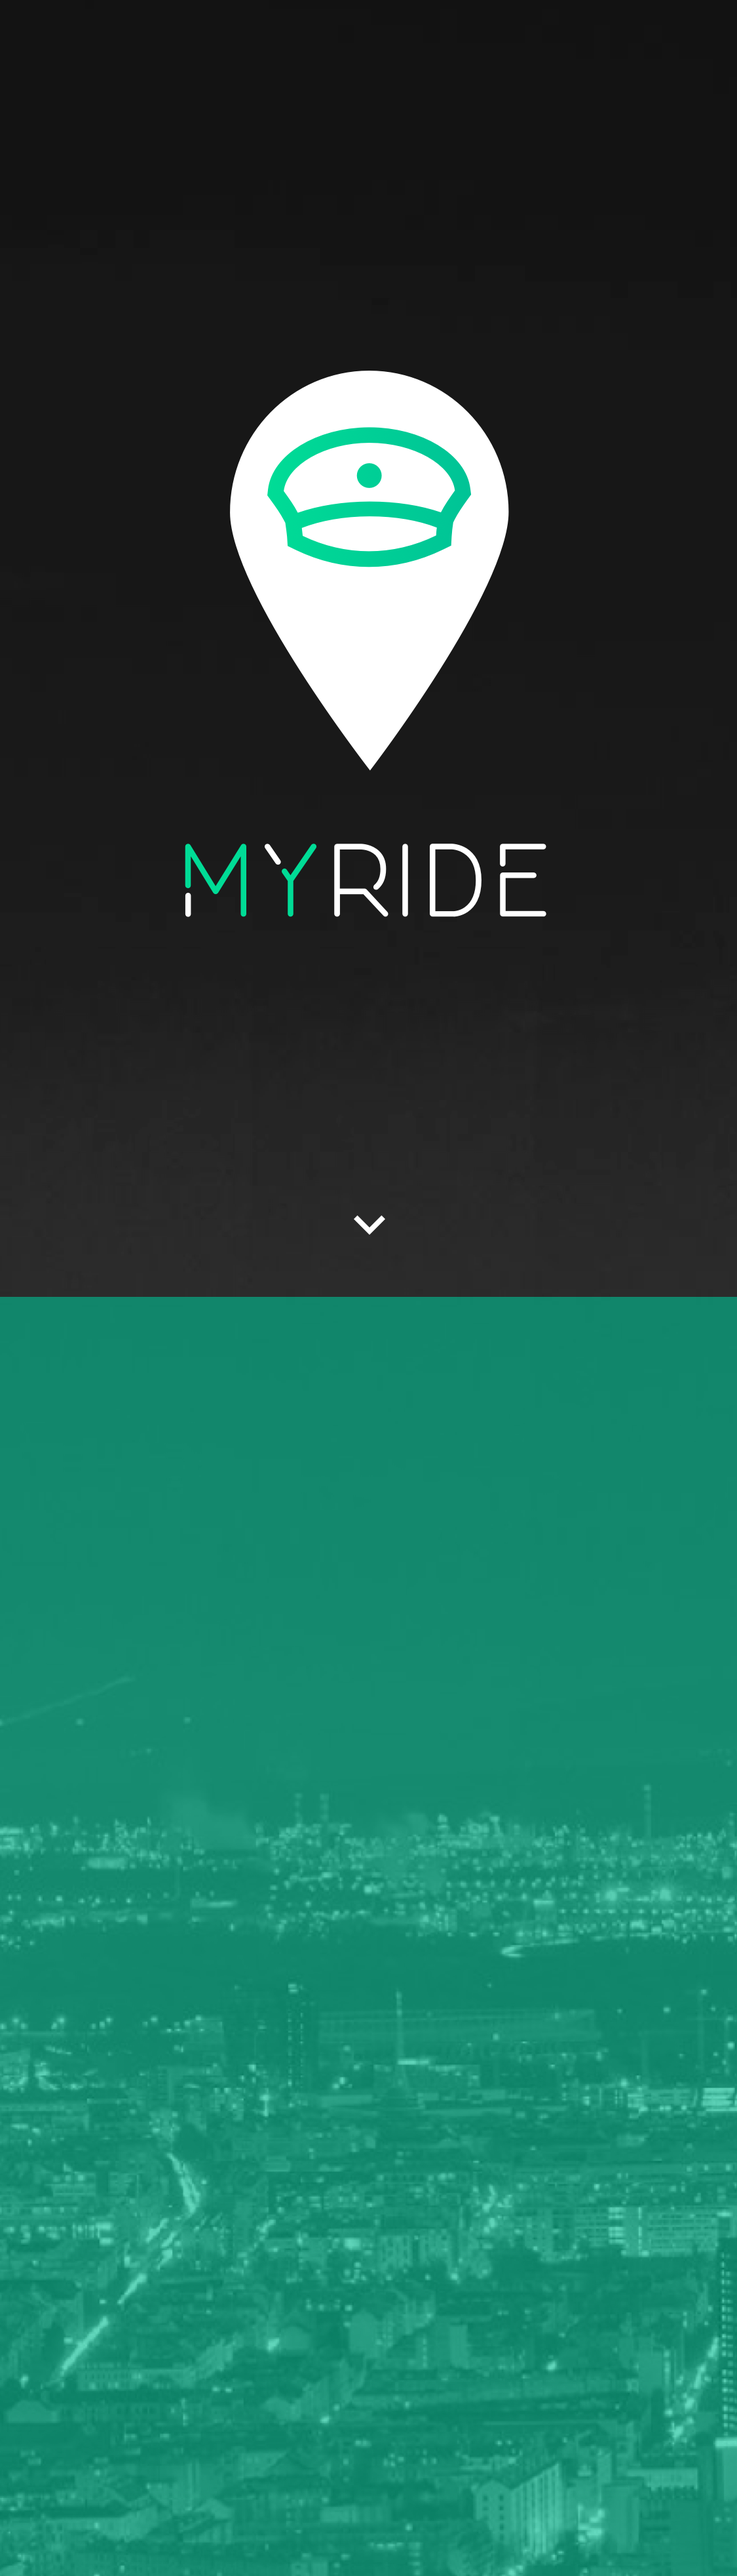
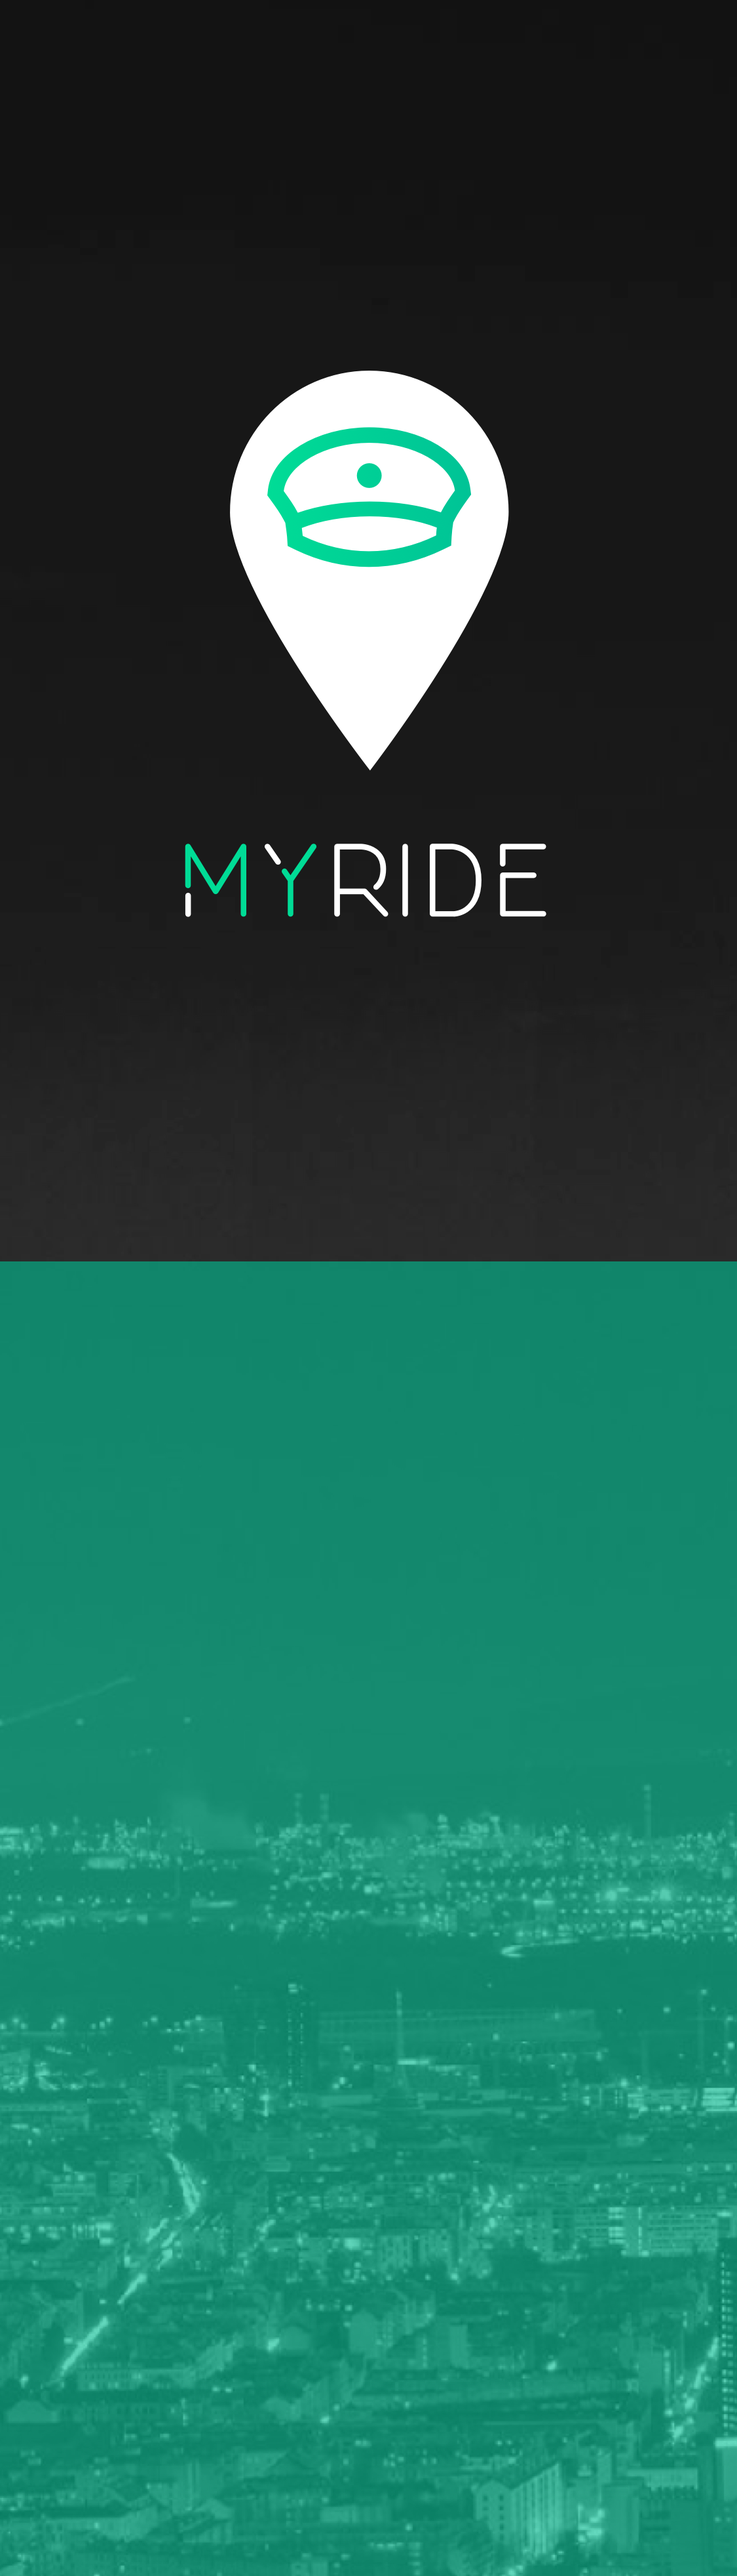
Fixed spacing

Changed region(s): [[0.0, 0.466, 1.0, 0.5281]]

diff --git a/templates/index.html b/templates/index.html
@@ -4,6 +4,12 @@
     <meta charset="UTF-8">
     <meta name="viewport" content="width=device-width, initial-scale=1.0">
     <link rel="stylesheet" href="{{ url_for('static', filename = 'css/style.css') }}">
+    <script>
+      window.paceOptions = {
+          ajax: false,
+          restartOnRequestAfter: false,
+      };
+    </script>
     <script src="{{ url_for('static', filename = 'js/pace.js') }}"></script>
     <link href="{{ url_for('static', filename = 'css/pace-theme.css') }}" rel="stylesheet" />
     <link rel="shortcut icon" type="image/x-icon" href="{{ url_for('static', filename = 'img/myride_logo.ico') }}">
@@ -71,7 +77,8 @@
           background-repeat: no-repeat;
           width: 305px;
           height: 131px;
-          margin: 0 auto;
+          margin-left: auto;
+          margin-right: auto;
         }
         
         .spacing {
@@ -94,7 +101,7 @@
       <div class="myride">
         <div class="content">
           <div class="spacing"></div>
-          <div class="header-title">
+          <div class="header-title" xmlns="http://www.w3.org/2000/svg" version="1.1">
           </div>
           <div class="subtitle">
           </div>
